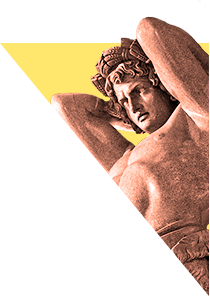
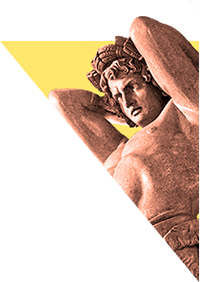
hover images

diff --git a/css/style.css b/css/style.css
@@ -261,25 +261,48 @@ nav.to-book:hover{
 	background: url(/img/route/angel.png);
 	left: 0;
 }
+.one-up:hover{
+	background: url(/img/route/hover/angel.png);
+	left: 0;
+}
 .two-up{
 	background: url(/img/route/hermitage.png);
 	left: 200px;
 }
-
+.two-up:hover{
+	background: url(/img/route/hover/hermitage.png);
+	left: 200px;
+}
 .three-up{
 	background: url(/img/route/pushkin.png);
+	left: 400px;
+}
+.three-up:hover{
+	background: url(/img/route/hover/pushkin.png);
 	left: 400px;
 }
 .four-up{
 	background: url(/img/route/rus-museum.png);
 	left: 600px;
 }
+.four-up:hover{
+	background: url(/img/route/hover/rus-museum.png);
+	left: 600px;
+}
 .five-up{
 	background: url(/img/route/bronze-horseman.png);
 	left: 800px;
 }
+.five-up:hover{
+	background: url(/img/route/hover/bronze-horseman.png);
+	left: 800px;
+}
 .six-up{
 	background: url(/img/route/camel.png);
+	left: 1000px;
+}
+.six-up:hover{
+	background: url(/img/route/hover/camel.png);
 	left: 1000px;
 }
 
@@ -288,10 +311,13 @@ nav.to-book:hover{
 	background: url(/img/route/atlant.png);
 	left: 0;
 }
-.atlants-hand{
-	height:49px!important;
-	width:100px!important;
-	background: url(/img/route/hover/hand-of-atlant.png) no-repeat;
+.one-mid:hover{
+	background: url(/img/route/hover/atlant.png);
+	left: 0;
+	top:-41px;
+	width:200px!important;
+	height:282px!important;
+
 }
 .two-mid{
 	left: -100px;
@@ -306,7 +332,13 @@ nav.to-book:hover{
 	height: 100%;
 	z-index:-1;
 }
-
+.two-mid:hover:after{
+	/*left:-5px;*/
+	top:-20px;
+	background: url(/img/route/hover/anichkov-bridge.png);
+	width:205px!important;
+	height:254px!important;
+}
 .three-mid{
 	left: 100px;
 	transform: skew(141deg);
@@ -361,6 +393,15 @@ nav.to-book:hover{
 	height: 100%;
 	z-index:-1;
 }
+.six-mid:hover:after{
+	content: "";
+	transform: skew(-141deg);
+	background: url(/img/route/hover/eliseevs-house.png);
+	position: absolute;
+	width: 100%;
+	height: 100%;
+	z-index:-1;
+}
 .seven-mid{
 	left:100px;
 	transform: skew(141deg);
@@ -407,22 +448,46 @@ nav.to-book:hover{
 	left: 0;
 }
 
-
 .one-bot{
 	background: url(/img/route/spas-on-blood.png);
 	left: 200px;
+}
+.one-bot:hover{
+	background: url(/img/route/hover/spas-on-blood.png);
+	left: 200px;
+	top:-127px;
+	width:200px!important;
+	height:371px!important;
 }
 .two-bot{
 	background: url(/img/route/suvorov.png);
 	left: 400px;
 }
+.two-bot:hover{
+	background: url(/img/route/hover/suvorov.png);
+	left: 400px;
+	top:-29px;
+	width:200px!important;
+	height:271px!important;
+}
 .three-bot{
 	background: url(/img/route/theatre.png);
+	left: 600px;
+}
+.three-bot:hover{
+	background: url(/img/route/hover/theatre.png);
 	left: 600px;
 }
 .four-bot{
 	background: url(/img/route/lomonosov.png);
 	left: 800px;
+}
+.four-bot:hover{
+	background: url(/img/route/hover/lomonosov.png);
+	left: 800px;
+	top:-9px;
+	width:200px!important;
+	height:254px!important;
 }
 /*fourth section*/
 

diff --git a/js/app.js b/js/app.js
@@ -8,9 +8,9 @@ $('.diagonal-box-1,.diagonal-box-2,.diagonal-box-3,.diagonal-box-4').css('transf
 
 $('.up-part div,.mid-part div,.bot-part div').each(function () {
 	$(this).on("mouseenter", function() {
-		$(this).css({'opacity':'1','overflow':'visible'});
+		$(this).css({'opacity':'1'});
 	}).on('mouseleave', function() {
-		$(this).css({'opacity': '.1','overflow':'hidden'});
+		$(this).css({'opacity': '.1'});
 	});
 });
 $('.triangle').click(function () {
